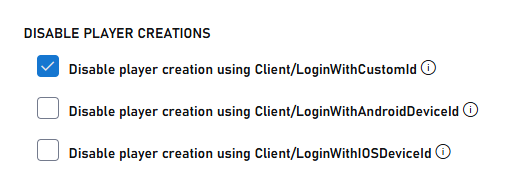
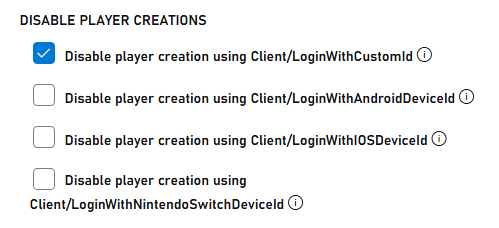
Antnguyen/anonymous authentication nintendo switch updates (#2737)
* Updating anonymous login docs to include
NintendoSwitchDeviceId

* Updating Acrolinx score

* updating api xref link

* Changing absolute links to relative links.

* Changing absolute links to relative links

* Updating ref links

diff --git a/playfab-docs/identity/player-identity/login/login-basics-best-practices.md b/playfab-docs/identity/player-identity/login/login-basics-best-practices.md
@@ -35,14 +35,15 @@ These logins include:
 - [LoginWithIOSDeviceID](xref:titleid.playfabapi.com.client.authentication.loginwithiosdeviceid)
 - [LoginWithAndroidDeviceID](xref:titleid.playfabapi.com.client.authentication.loginwithandroiddeviceid)
 - [LoginWithCustomID](xref:titleid.playfabapi.com.client.authentication.loginwithcustomid)
+- [LoginWithNintendoSwitchDeviceId](xref:titleid.playfabapi.com.client.authentication.loginwithnintendoswitchdeviceid)
 
-Since they're anonymous, these methods can uniquely identify a device, *but contain no recoverable information about the player*. If the player loses or breaks their device, the account is lost, and may be difficult to recover. In most cases the account is simply orphaned and not retrievable.
+Since they're anonymous, these methods can uniquely identify a device, *but contain no recoverable information about the player*. If the player loses or breaks their device, the account is lost, and may be difficult to recover. In most cases the account is orphaned and not retrievable.
 
 So why use it? Because it's the lowest possible barrier to entry for the player, requiring no interaction. It gets the player trying your game with minimal effort, while creating an account they can get back to for continuity (as long as they have that device).
 
 ### Best practice
 
-Your game should use an *anonymous* login for creating a new account and linking new devices to an existing account. We recommend this because some players may abandon a game that asks for an e-mail or identifiable information.
+Your game should use an *anonymous* login for creating a new account and linking new devices to an existing account. We recommend this because some players might abandon a game that asks for an e-mail or identifiable information.
 
 However, once the anonymous login is complete, you should provide the option to add *recoverable* login credentials, and provide some explanation regarding the benefits.
 
@@ -52,11 +53,11 @@ A paid account lost forever affects revenue.
 
 ### iOS devices
 
-For iOS devices, the player ID changes if they uninstall your game, and then *re*-install it. One way to make sure you have a consistent ID on iOS is to save the device ID for the player to the iTunes KeyChain, so that you can read it from there on game start, and use it to sign in.
+For iOS devices, the player ID changes if they uninstall your game, and then reinstall it. One way to make sure you have a consistent ID on iOS is to save the device ID for the player to the iTunes KeyChain, so that you can read it from there on game start, and use it to sign in.
 
 You must determine how to generate unique custom IDs for any other device or platform. Custom IDs are an effective alternative for other platforms or devices, but you must generate your custom IDs with care. If they're too simple, you risk hackers stealing the accounts of others.
 
-### android devices
+### Android devices
 
 For latest best practices, see [Google's guidelines on user data IDs](https://developer.android.com/training/articles/user-data-ids).
 
@@ -80,23 +81,23 @@ If used, the e-mail or username-plus-password are authenticated directly by Play
 
 ### Third party API options
 
-These require separate API calls to another service, but do not require additional SDK installations:
+These require separate API calls to another service, but don't require extra SDK installations:
 
 - [LoginWithKongregate](xref:titleid.playfabapi.com.client.authentication.loginwithkongregate)
 - [LoginWithSteam](xref:titleid.playfabapi.com.client.authentication.loginwithsteam)
 - [LoginWithTwitch](xref:titleid.playfabapi.com.client.authentication.loginwithtwitch)
 - [LoginWithGameCenter](xref:titleid.playfabapi.com.client.authentication.loginwithgamecenter) (iOS only, and provided you require secure authentication.)
 
-Secure authentication happens between your user, and the 3rd party service API call.
+Secure authentication happens between your user, and the third party service API call.
 
 ### Third party SDK options
 
-These require a separate SDK installed into your game. Secure authentication happens within the 3rd party SDK.
+These require a separate SDK installed into your game. Secure authentication happens within the third party SDK.
 
 - [LoginWithFacebook](xref:titleid.playfabapi.com.client.authentication.loginwithfacebook)
 - [LoginWithGoogleAccount](xref:titleid.playfabapi.com.client.authentication.loginwithgoogleaccount)
 
-In all 3rd party options, those services process the login credentials, and you pass a secure token to the appropriate PlayFab login method. PlayFab remains unaware of the login credentials for those services.
+In all third party options, those services process the login credentials, and you pass a secure token to the appropriate PlayFab login method. PlayFab remains unaware of the login credentials for those services.
 
 ### More best practices
 
@@ -119,4 +120,4 @@ The following flow chart describes anonymous login followed by adding a recovera
 
 ### Best practice
 
-Use the appropriate anonymous login for your device, paired with one or more options for account recovery.
+Use the appropriate anonymous login for your device, paired with one, or more options for account recovery.

diff --git a/playfab-docs/identity/player-identity/platform-specific-authentication/anonymous-login.md b/playfab-docs/identity/player-identity/platform-specific-authentication/anonymous-login.md
@@ -22,12 +22,12 @@ This guide shows you how to implement PlayFab authentication using anonymous log
 To enhance the security of anonymous login, PlayFab implemented a crucial security feature that separates player creation capabilities between client-side and server-side APIs.
 
 1. **Disabled Client-Side Player Creation**:
-   - For newly created titles, all anonymous login APIs on the client side (`LoginWithCustomID`, `LoginWithAndroidDeviceID`, `LoginWithIOSDeviceID`) no longer automatically create new player accounts. Titles created before June 30, 2025 can disable anonymous login through [Game Manager configuration](anonymous-login.md#configuring-player-creation-settings).
+   - For newly created titles, all anonymous login APIs on the client side (`LoginWithCustomID`, `LoginWithAndroidDeviceID`, `LoginWithIOSDeviceID`, `LoginWithNintendoSwitchDeviceId`) no longer automatically create new player accounts. Titles created before June 30, 2025 can disable anonymous login through [Game Manager configuration](anonymous-login.md#configuring-player-creation-settings).
    - Disabling client-side player creation prevents unauthorized account creation directly from unauthorized clients.
    - Only existing players can log in through client-side APIs.
 
 2. **Enabled Server-Side Player Creation**:
-   - Player account creation is now handled through server-side APIs (`LoginWithCustomID`, `LoginWithAndroidDeviceID`, `LoginWithIOSDeviceID`).
+   - Player account creation is now handled through server-side APIs (`LoginWithCustomID`, `LoginWithAndroidDeviceID`, `LoginWithIOSDeviceID`, `LoginWithNintendoDeviceId`).
    - This ensures all account creation happens in a secure, controlled environment.
 
 ## Prerequisites
@@ -46,11 +46,11 @@ To enhance the security of anonymous login, PlayFab implemented a crucial securi
 1. **Server-side Account Creation**:
    - Use `Server/LoginWithCustomID` with the server API to create new players
    - Requires a title secret key
-   - Reference: [Server API - Login With Custom ID](https://learn.microsoft.com/rest/api/playfab/server/authentication/login-with-custom-id)
+   - Reference: [Server API - Login With Custom ID](xref:titleid.playfabapi.com.server.authentication.loginwithcustomid)
 
 2. **Client-side Login**:
    - Use `Client/LoginWithCustomID` with the client API to log in existing players
-   - Reference: [Client API - Login With Custom ID](https://learn.microsoft.com/rest/api/playfab/client/authentication/login-with-custom-id)
+   - Reference: [Client API - Login With Custom ID](xref:titleid.playfabapi.com.client.authentication.loginwithcustomid)
 
 ## Implementation Steps
 
